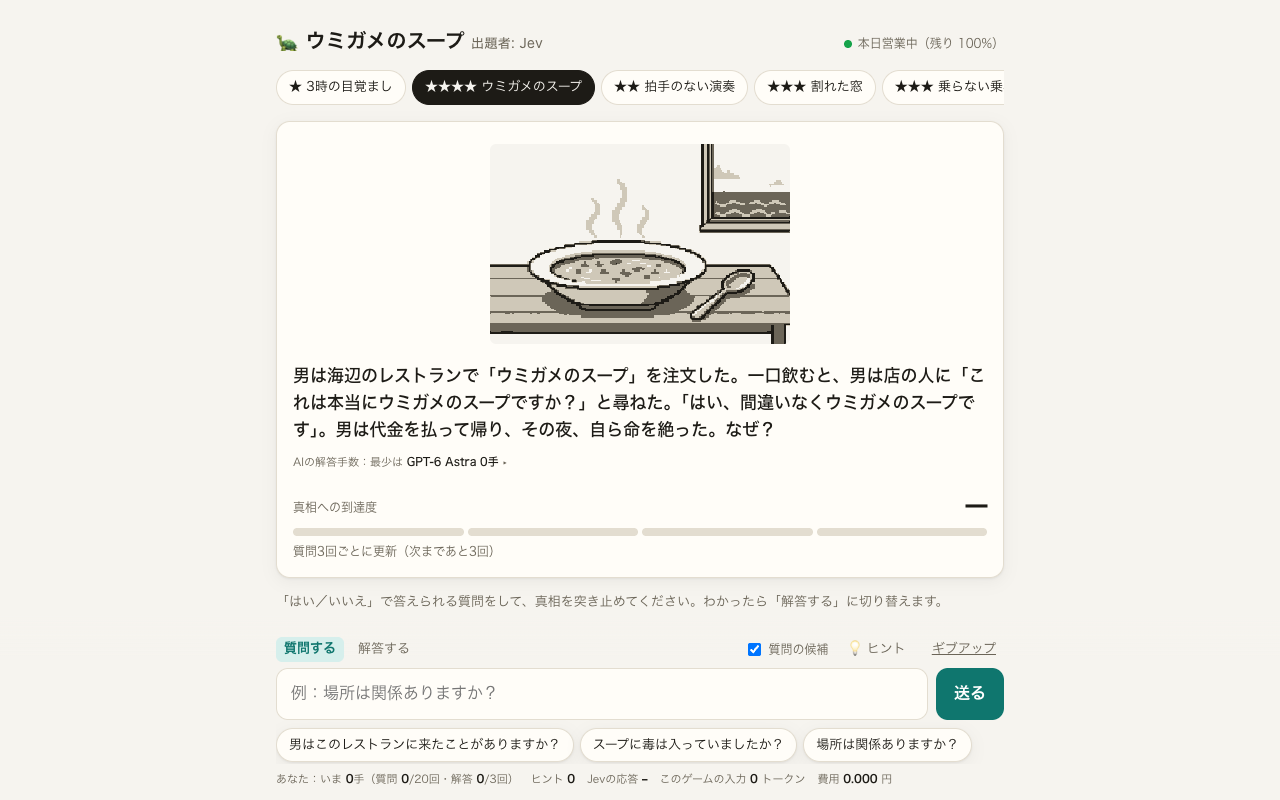
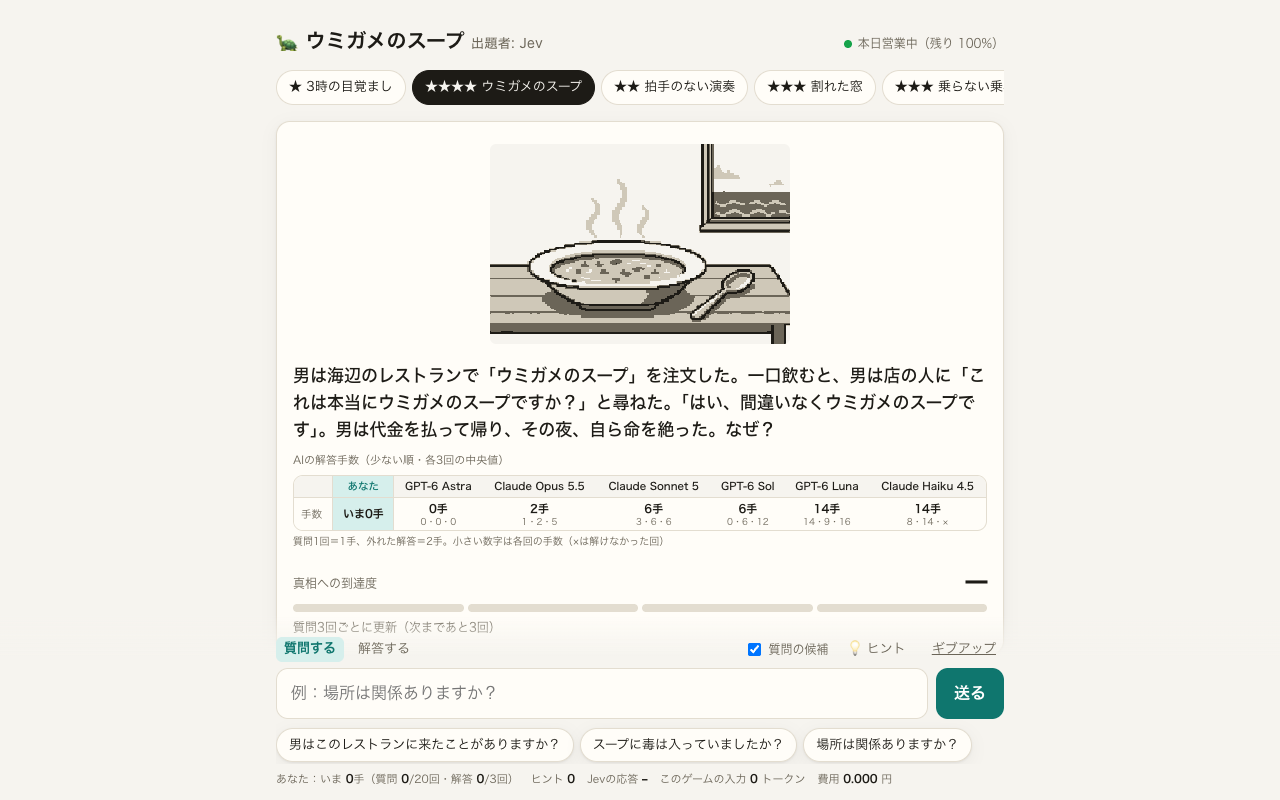
Giving up no longer reveals the answer; add a 'show answer' button

Changed region(s): [[0.2188, 0.5625, 0.7812, 0.8125]]

diff --git a/umigame/static/index.html b/umigame/static/index.html
@@ -218,6 +218,7 @@ form button:disabled{opacity:.5;cursor:default}
     <div class="done-sub" id="done-sub"></div>
     <button type="button" class="xshare" id="d-share">𝕏 でシェア</button>
     <div class="done-btns">
+      <button type="button" id="d-truth">真相を見る</button>
       <button type="button" id="d-result">結果を見る</button>
       <button type="button" id="d-restart">最初から</button>
       <button type="button" class="accent" id="d-next">次の問題へ</button>
@@ -341,7 +342,7 @@ const wrongs = g => g.turns.filter(t => t.kind === "g" && t.level && t.level !==
 const scoreOf = g => counted(g) + 2 * wrongs(g);
 // 回数の上限（サーバーの /api/puzzles から AI 対戦と同じ値で上書きする）
 let MAX_QUESTIONS = 20, MAX_UNCOUNTED = 10, MAX_GUESSES = 3;
-const isOver = g => g.solved || !!g.truth || wrongs(g) >= MAX_GUESSES;
+const isOver = g => g.solved || !!g.truth || !!g.gaveUp || wrongs(g) >= MAX_GUESSES;
 
 const PATH = {yes:"🟩", no:"⬛", irrelevant:"⬜", partly:"🟨"};
 const SHARE_TAG = "#ウミガメ人間vsAI";
@@ -470,6 +471,7 @@ function showResult(pid){
     ql.append(d);
   });
   card.querySelector(".truthbox span").textContent = g.truth || "";
+  card.querySelector(".truthbox").hidden = !g.truth;
   card.querySelector(".close").onclick = hideResult;
   card.querySelector('[data-act="x"]').onclick = () => shareX(pid);
   card.querySelector('[data-act="copy"]').onclick = async e => {
@@ -581,9 +583,13 @@ function renderDock(g){
   $("donebar").hidden = !over;
   if(over){
     const score = scoreOf(g);
-    $("done-msg").textContent = g.solved ? `🎉 解決！ ${score}手` : "このゲームは終わりました（真相は上に出ています）";
+    $("done-msg").textContent = g.solved ? `🎉 解決！ ${score}手`
+      : g.truth ? "このゲームは終わりました（真相は上に出ています）"
+      : g.gaveUp ? "ギブアップしました" : `解答を${MAX_GUESSES}回使いました`;
     $("done-sub").textContent = g.solved ? (compareAI(score) || "") + (g.retry ? "　※解き直し（参考記録）" : "")
-      : "「最初から」でもう一度挑戦できます（記録は参考記録になります）";
+      : g.truth ? "「最初から」でもう一度挑戦できます（記録は参考記録になります）"
+      : "真相を見ずに「最初から」挑戦し直すこともできます";
+    $("d-truth").hidden = g.solved || !!g.truth;
     $("d-next").hidden = !nextPuzzle(cur.id);
   }
   requestAnimationFrame(fitDock);
@@ -779,7 +785,7 @@ async function afterGuess(pid){
   const g = game(pid);
   if(g.solved){ showResult(pid); return; }
   if(wrongs(g) >= MAX_GUESSES && !g.truth){
-    try{ const r = await post("/api/reveal", {pid}); g.truth = r.truth; store(); if(cur.id === pid) renderLog(); }catch{}
+    if(cur.id === pid){ renderStats(); }
     showResult(pid);
   }
 }
@@ -817,7 +823,7 @@ $("f").onsubmit = async ev => {
   const pid = cur.id, g = game(pid);
   if(isOver(g)){
     alert(g.solved ? "もう解けています。「最初から」で解き直せます" : g.truth ? "このゲームは終わっています。「最初から」で解き直せます"
-      : `解答は${MAX_GUESSES}回までです。ギブアップで真相を見られます`);
+      : "このゲームは終わっています。「真相を見る」か「最初から」を選んでください");
     return;
   }
   if(mode === "ask" && counted(g) >= MAX_QUESTIONS){
@@ -882,18 +888,24 @@ let giveupArmed = null;
 $("giveup").onclick = async () => {
   const btn = $("giveup");
   if(!giveupArmed){
-    btn.textContent = "もう一度押すと真相を表示";
+    btn.textContent = "もう一度押すとギブアップ";
     giveupArmed = setTimeout(() => { giveupArmed = null; btn.textContent = "ギブアップ"; }, 4000);
     return;
   }
   clearTimeout(giveupArmed); giveupArmed = null; btn.textContent = "ギブアップ";
   const g = game(cur.id);
-  try{
-    const r = await post("/api/reveal", {pid:cur.id});
-    g.truth = r.truth; store(); renderLog(); scrollDown();
-    showResult(cur.id);
-  }catch(e){ alert(e.message); }
+  g.gaveUp = true; store();
+  renderLog(); renderStats(); renderTabs(); scrollDown();
 };
+// 真相はボタンを押したときだけ見せる（ギブアップ・解答を使い切ったあと）
+async function revealTruth(pid){
+  const g = game(pid);
+  try{
+    const r = await post("/api/reveal", {pid});
+    g.truth = r.truth; store();
+    if(cur.id === pid){ renderLog(); renderStats(); renderTabs(); scrollDown(); }
+  }catch(e){ alert(e.message); }
+}
 // この問題の記録だけを消して最初から。答えを知ったあとの解き直しは参考記録にする
 // 2回押しで確定するボタン（confirm は埋め込みのブラウザで出ないことがあるため）
 function twoTap(btn, armedText, action){
@@ -913,6 +925,7 @@ function twoTap(btn, armedText, action){
 twoTap($("restart"), "もう一度押すと記録を消す", restartPuzzle);
 twoTap($("d-restart"), "もう一度押すと記録を消す", restartPuzzle);
 $("d-result").onclick = () => showResult(cur.id);
+twoTap($("d-truth"), "もう一度押すと真相を表示", () => revealTruth(cur.id));
 $("d-share").onclick = () => shareX(cur.id);
 $("d-next").onclick = () => { const n = nextPuzzle(cur.id); if(n) openPuzzle(n.id); };
 function restartPuzzle(){

diff --git a/docs/architecture.md b/docs/architecture.md
@@ -16,7 +16,7 @@
 | # | 原則 | どこで守っているか |
 |---|---|---|
 | 1 | **Jev が分類し、コードが決める**。Jev は確率を返すだけで、答え・勝ち負け・ヒントの選び方はコードのしきい値と if 文で決める | `judge.py` |
-| 2 | **真相はサーバーの外に出さない**。ブラウザに渡すのは、正解したときとギブアップしたときだけ | `web.py` |
+| 2 | **真相はサーバーの外に出さない**。ブラウザに渡すのは、正解したときと、終わったあとに「真相を見る」を押したときだけ | `web.py` |
 | 3 | **人間と AI は同じルール・同じ出題者**。回数の上限・手数の数え方・到達度の見え方をそろえる | `session.py`（上限の値はここだけで決める） |
 | 4 | **無料で公開しても、費用の上限が決まっている**。1日の上限に達したら「店じまい」 | `web.py` の `Guard` |
 | 5 | **プレイ中に AI が文章を生成しない**。問題文・ヒント・定型文はすべて手書き（Claude で下書きし、作者が確認） | `puzzles.py` |
@@ -228,7 +228,7 @@ sequenceDiagram
 | `POST /api/guess` | 最終解答の判定 | ○ | ○ | 要点ごとの確率（正解のときだけ真相を返す） |
 | `POST /api/choices` | 解答の候補（★1〜2） | － | ○ | どれが正解か |
 | `POST /api/choose` | 候補を選んで解答 | － | ○ | （正解のときだけ真相を返す） |
-| `POST /api/reveal` | ギブアップ・3回外したとき | － | － | － |
+| `POST /api/reveal` | 終わったあと（ギブアップ・3回外した）に「真相を見る」を押したとき | － | － | － |
 
 ---
 
@@ -249,10 +249,11 @@ stateDiagram-v2
   質問中 --> 終わり: ギブアップ（2回押し）
   解けた --> 結果: 結果の画面・シェア
   終わり --> 結果
-  結果 --> 質問中: 最初から（2回押し・参考記録）
+  終わり --> 真相: 真相を見る（2回押し）
+  結果 --> 質問中: 最初から（2回押し。真相を見たあとなら参考記録）
 ```
 
-終わったあとは、入力欄の代わりに「𝕏 でシェア／結果を見る／最初から／次の問題へ」を出す。シェアする文は手数・勝ち負け・答えの並び（🟩はい ⬛いいえ ⬜関係なし 🟨一部）・Jev の呼び出し回数と費用だけで、**真相と質問の中身は出さない**。
+終わったあとは、入力欄の代わりに「𝕏 でシェア／真相を見る（解けなかったときだけ）／結果を見る／最初から／次の問題へ」を出す。ギブアップしても真相は自動では出さないので、見ずに最初から解き直せる。シェアする文は手数・勝ち負け・答えの並び（🟩はい ⬛いいえ ⬜関係なし 🟨一部）・Jev の呼び出し回数と費用だけで、**真相と質問の中身は出さない**。
 
 ---
 
